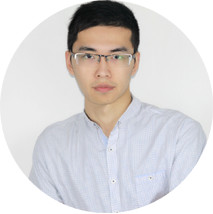
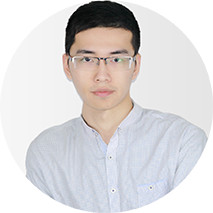
更新网站

diff --git a/index.html b/index.html
@@ -15,7 +15,7 @@
 <body>
   <div class="header section" id="home">
     <div class="main-content">
-      <img src="/images/logo.jpg" alt="">
+      <img src="/images/logo.png" alt="">
       <div class="menu clearfix">
         <ul>
           <li><a href="#home"><span>首页</span> <span class="eng">Home page</span></a></li>
@@ -69,7 +69,7 @@
         <span class="eng-title">Feature</span>
         <div class="split"></div>
         <p class="first">品质源于用心编织每一件与美好相关的事物</p>
-        <p class="sec">Quality comes from the heart</p>
+        <p class="sec">Good quality comes from the heart</p>
       </div>
       <div class="left">
         <img src="/images/ny-1.jpg" alt="">
@@ -89,7 +89,7 @@
         <p class="eng-title">Brief</p>
         <div class="split"></div>
         <p class="first">专业源于用心、关爱源自生活</p>
-        <p class="sec">The professional from the heart, love from life</p>
+        <p class="sec">Profession from heart, affercion from life</p>
       </div>
       <div class="bottom">
         <div class="context">
@@ -139,7 +139,7 @@
             <p>沟通交流、携手共创绿色膳食</p>
 
             <p class="sd-eng">Our partners:</p>
-            <p class="sd-eng">we look forward to cooperate with more restaurants of healthy-diets for green meals</p>
+            <p class="sd-eng">We look forward to cooperate with more restaurants of healthy-diets for green meals</p>
             </p>
           </div>
 
@@ -151,7 +151,7 @@
             <p>期待与更多关注员工身心健康的企业</p>
             <p>真诚互动、关爱呵护、快乐工作</p>
             <p class="sd-eng">Our shared platforms:</p>
-            <p class="sd-eng">we look forward to interact and work with more enterprises which care for its staff’s health</p>
+            <p class="sd-eng">We look forward to interact and work with more enterprises which care for its staff’s health</p>
           </div>
         </div>
 
@@ -210,7 +210,7 @@
         <span>CEO</span>
         <div class="words">
           <p>南京中医药大学药学院</p>
-          <p>“药食同源我受益于此7年，</p>
+          <p>“用心感悟，药食同源我受益于此7年，</p>
           <p>未来我还会坚持70年”</p>
         </div>
       </div>
@@ -281,6 +281,7 @@
           <li>江苏省公安厅物证鉴定中心特聘科技专家</li>
           <li>江苏省中药技能大赛执行委员会副主任、副裁判长</li>
         </ul>
+        <br>
         <p>“现在老百姓对于医疗健康养生的意识越来越高，中药当中有一类特殊既是食品又能入药的叫药食同源，这是老百姓祖祖辈辈积累下来的宝贵财富，更是中医药事业大发展中不可或缺的重要板块。”</p>
       </div>
     </div>
@@ -311,6 +312,7 @@
       <div class="right inline">
         <img src="/images/recruitment-qr.jpg" alt="">
         <p>更新详情点击/扫描二维码：</p>
+        <a href="http://x.eqxiu.com/s/vgjVXwoX">http://x.eqxiu.com/s/vgjVXwoX</a>
         <p>（本链接/二维码为易企秀，不定期推送岗位信息）</p>
       </div>
     </div>

diff --git a/style.css b/style.css
@@ -17,7 +17,7 @@ a {
 
 body {
   margin: 0 auto;
-  font-family: 微软雅黑,"microsoft yahei",宋体,新宋体; }
+  font-family: arial,'新宋体',sans-serif,'宋体'; }
 
 .section .main-content {
   max-width: 950px;
@@ -108,6 +108,8 @@ body {
     max-width: 100%;
     margin-top: 20px;
     margin-right: 40px; }
+  .brief .context-pic img {
+    width: 160px; }
 
 .service {
   padding: 40px 0 60px;
@@ -169,7 +171,7 @@ body {
       margin-left: 50px; }
       .team .professor .professor-desc li {
         list-style-type: circle;
-        margin-left: 65px;
+        margin-left: 30px;
         line-height: 1.4; }
 
 .recruitment {
@@ -199,6 +201,8 @@ body {
     text-align: center; }
     .recruitment .right p {
       margin-top: 5px; }
+    .recruitment .right a {
+      color: #777; }
 
 .contact {
   padding: 30px 0; }
@@ -212,6 +216,8 @@ body {
     padding: 0 78px; }
   .contact .block {
     float: left; }
+    .contact .block a {
+      color: #777; }
   .contact .qrs {
     float: left;
     margin-left: 32px; }
@@ -267,6 +273,8 @@ body {
   .team .professor {
     margin: 40px 0;
     width: 100%; }
+    .team .professor img {
+      width: 100%; }
     .team .professor li {
       margin-left: 0; }
     .team .professor .professor-desc {

diff --git a/style.scss b/style.scss
@@ -13,7 +13,7 @@ a {text-decoration: none; decoration: none;}
 
 body { 
   margin: 0 auto;
-  font-family: 微软雅黑,"microsoft yahei",宋体,新宋体; 
+  font-family: arial,'新宋体',sans-serif,'宋体';
 }
 
 .section {
@@ -136,6 +136,11 @@ body {
     margin-top: 20px;
     margin-right: 40px;
   }
+  .context-pic {
+    img {
+      width: 160px;
+    }
+  }
 }
 
 .service {
@@ -217,7 +222,7 @@ body {
       margin-left: 50px;
       li {
         list-style-type: circle;
-        margin-left: 65px;
+        margin-left: 30px;
         line-height: 1.4;
       } 
     }
@@ -261,6 +266,9 @@ body {
     p {
       margin-top: 5px;
     }
+    a {
+      color: #777;
+    }
   }
 }
 
@@ -279,6 +287,9 @@ body {
   }
   .block {
     float: left;
+    a {
+      color: #777;
+    }
   }
   .qrs {
     float: left;
@@ -356,6 +367,9 @@ body {
     .professor {
       margin: 40px 0;
       width: 100%;
+      img {
+        width: 100%;
+      }
       li {
         margin-left: 0;
       }
